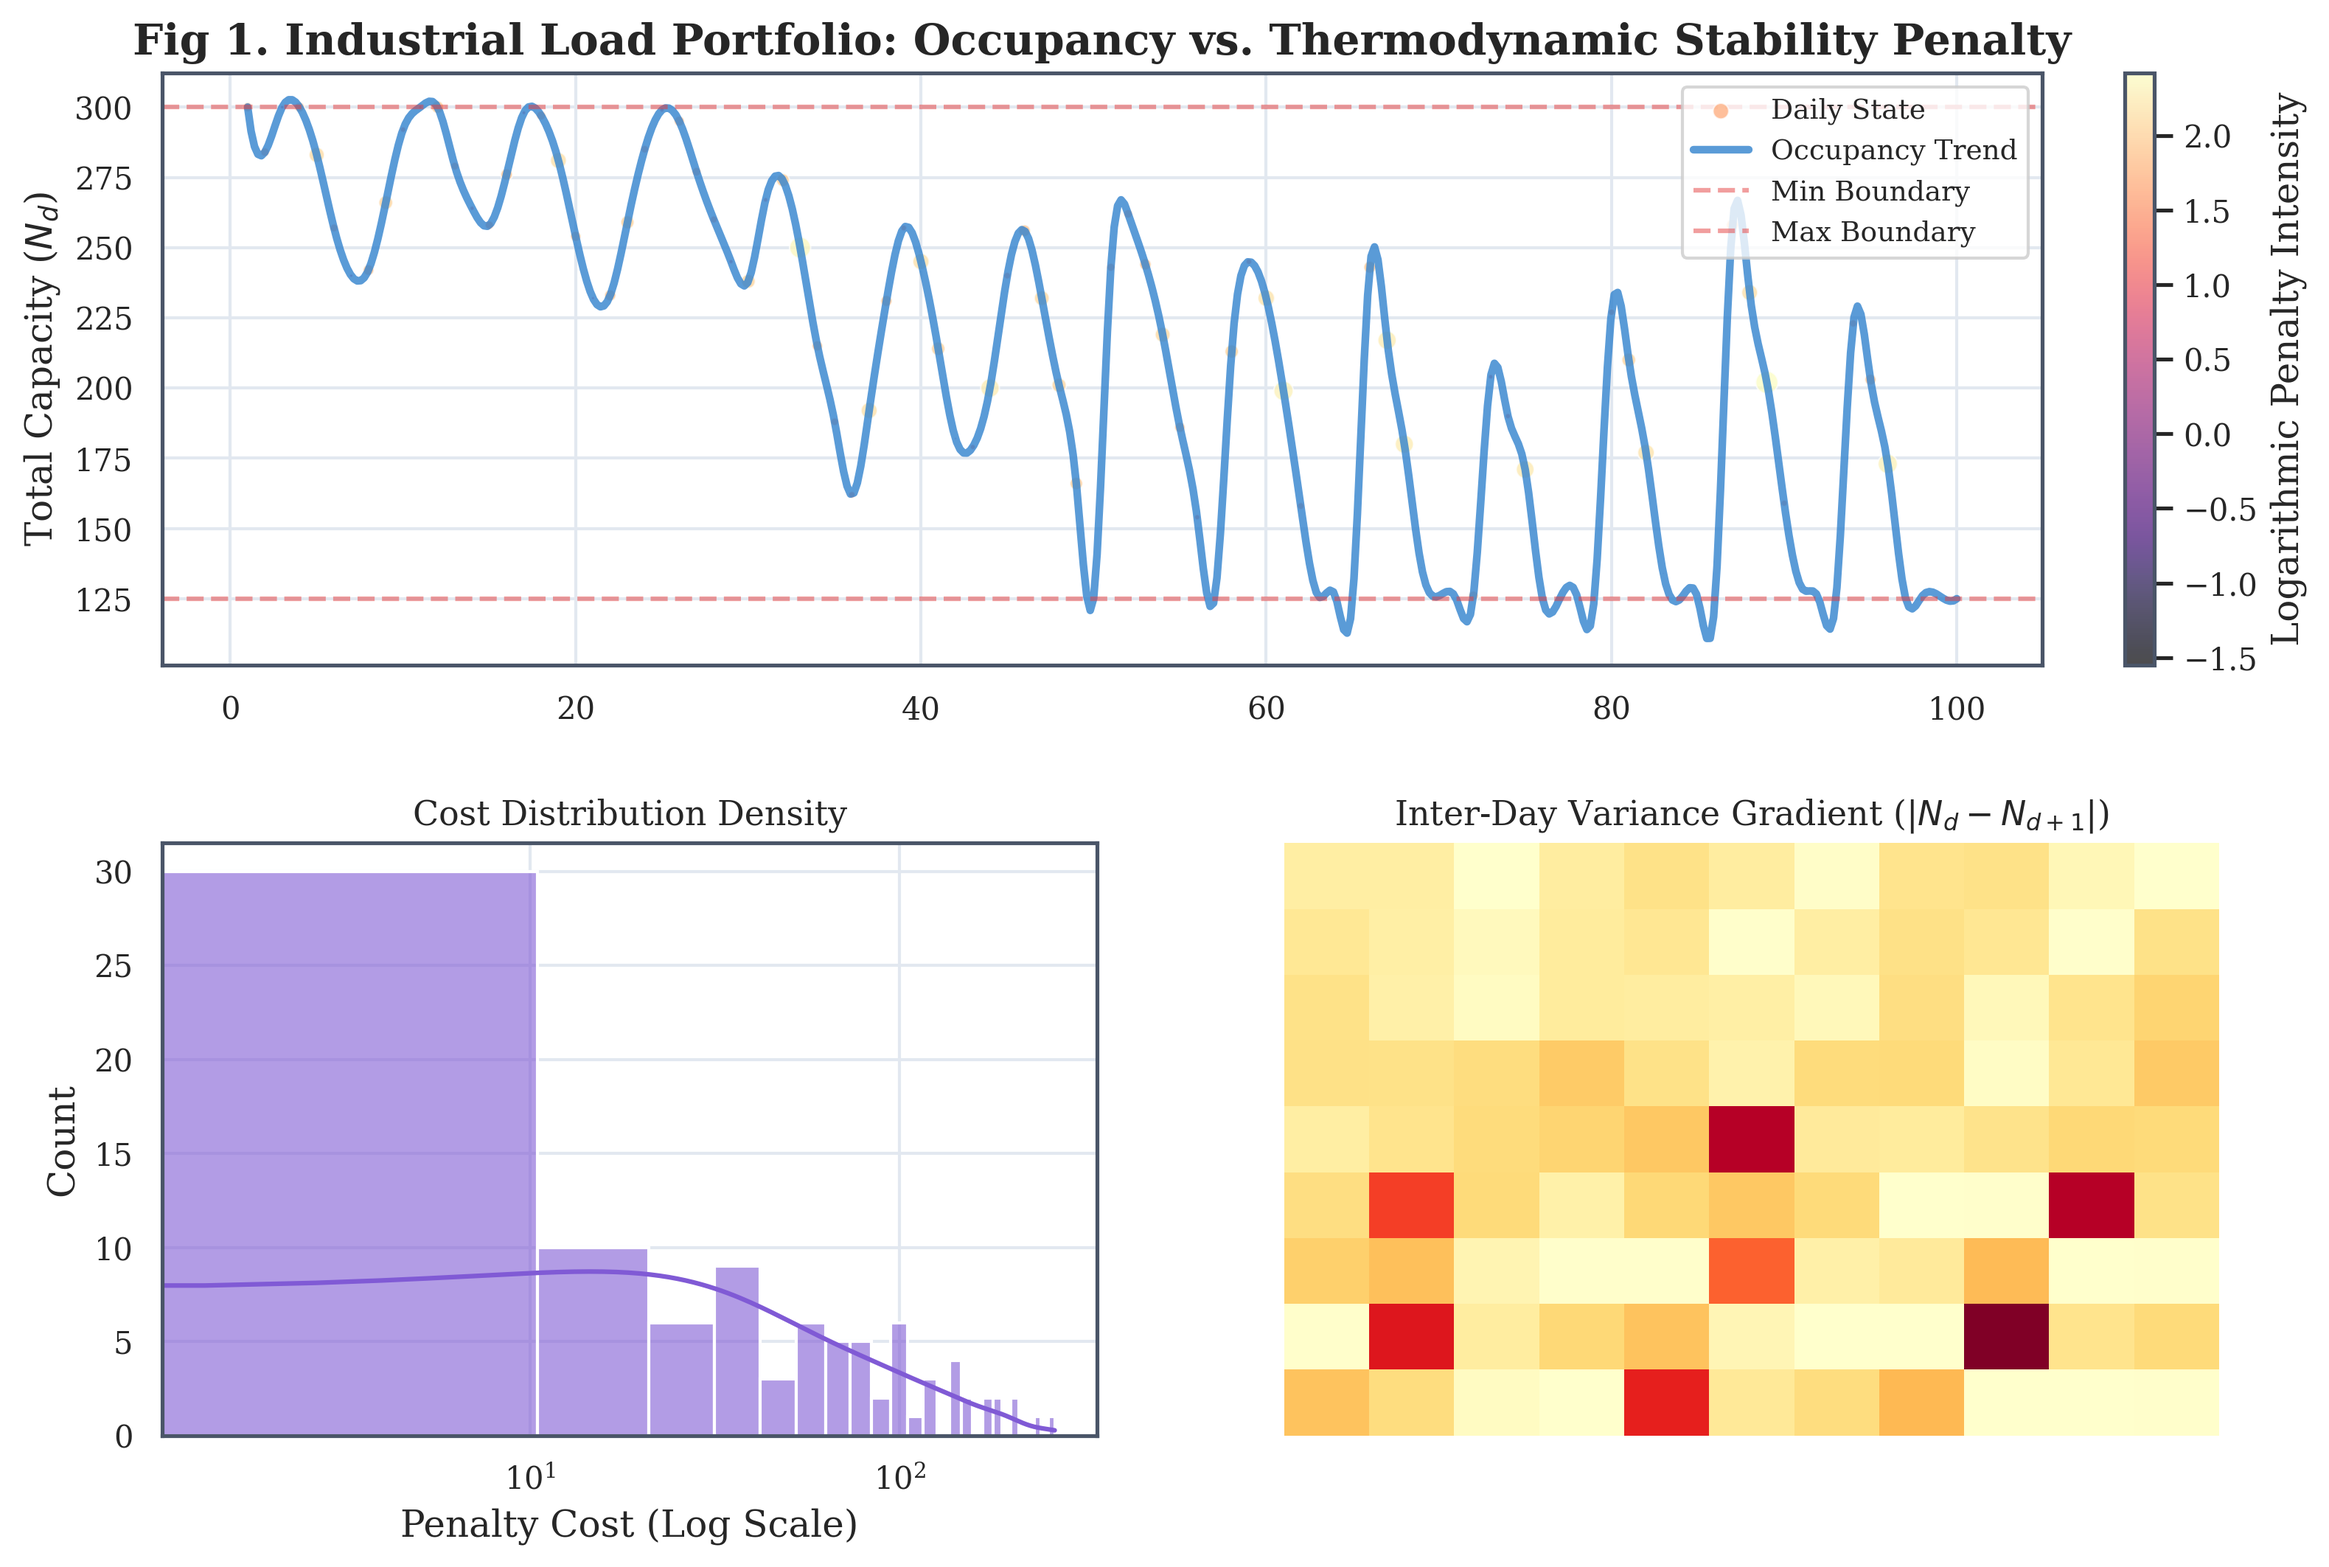
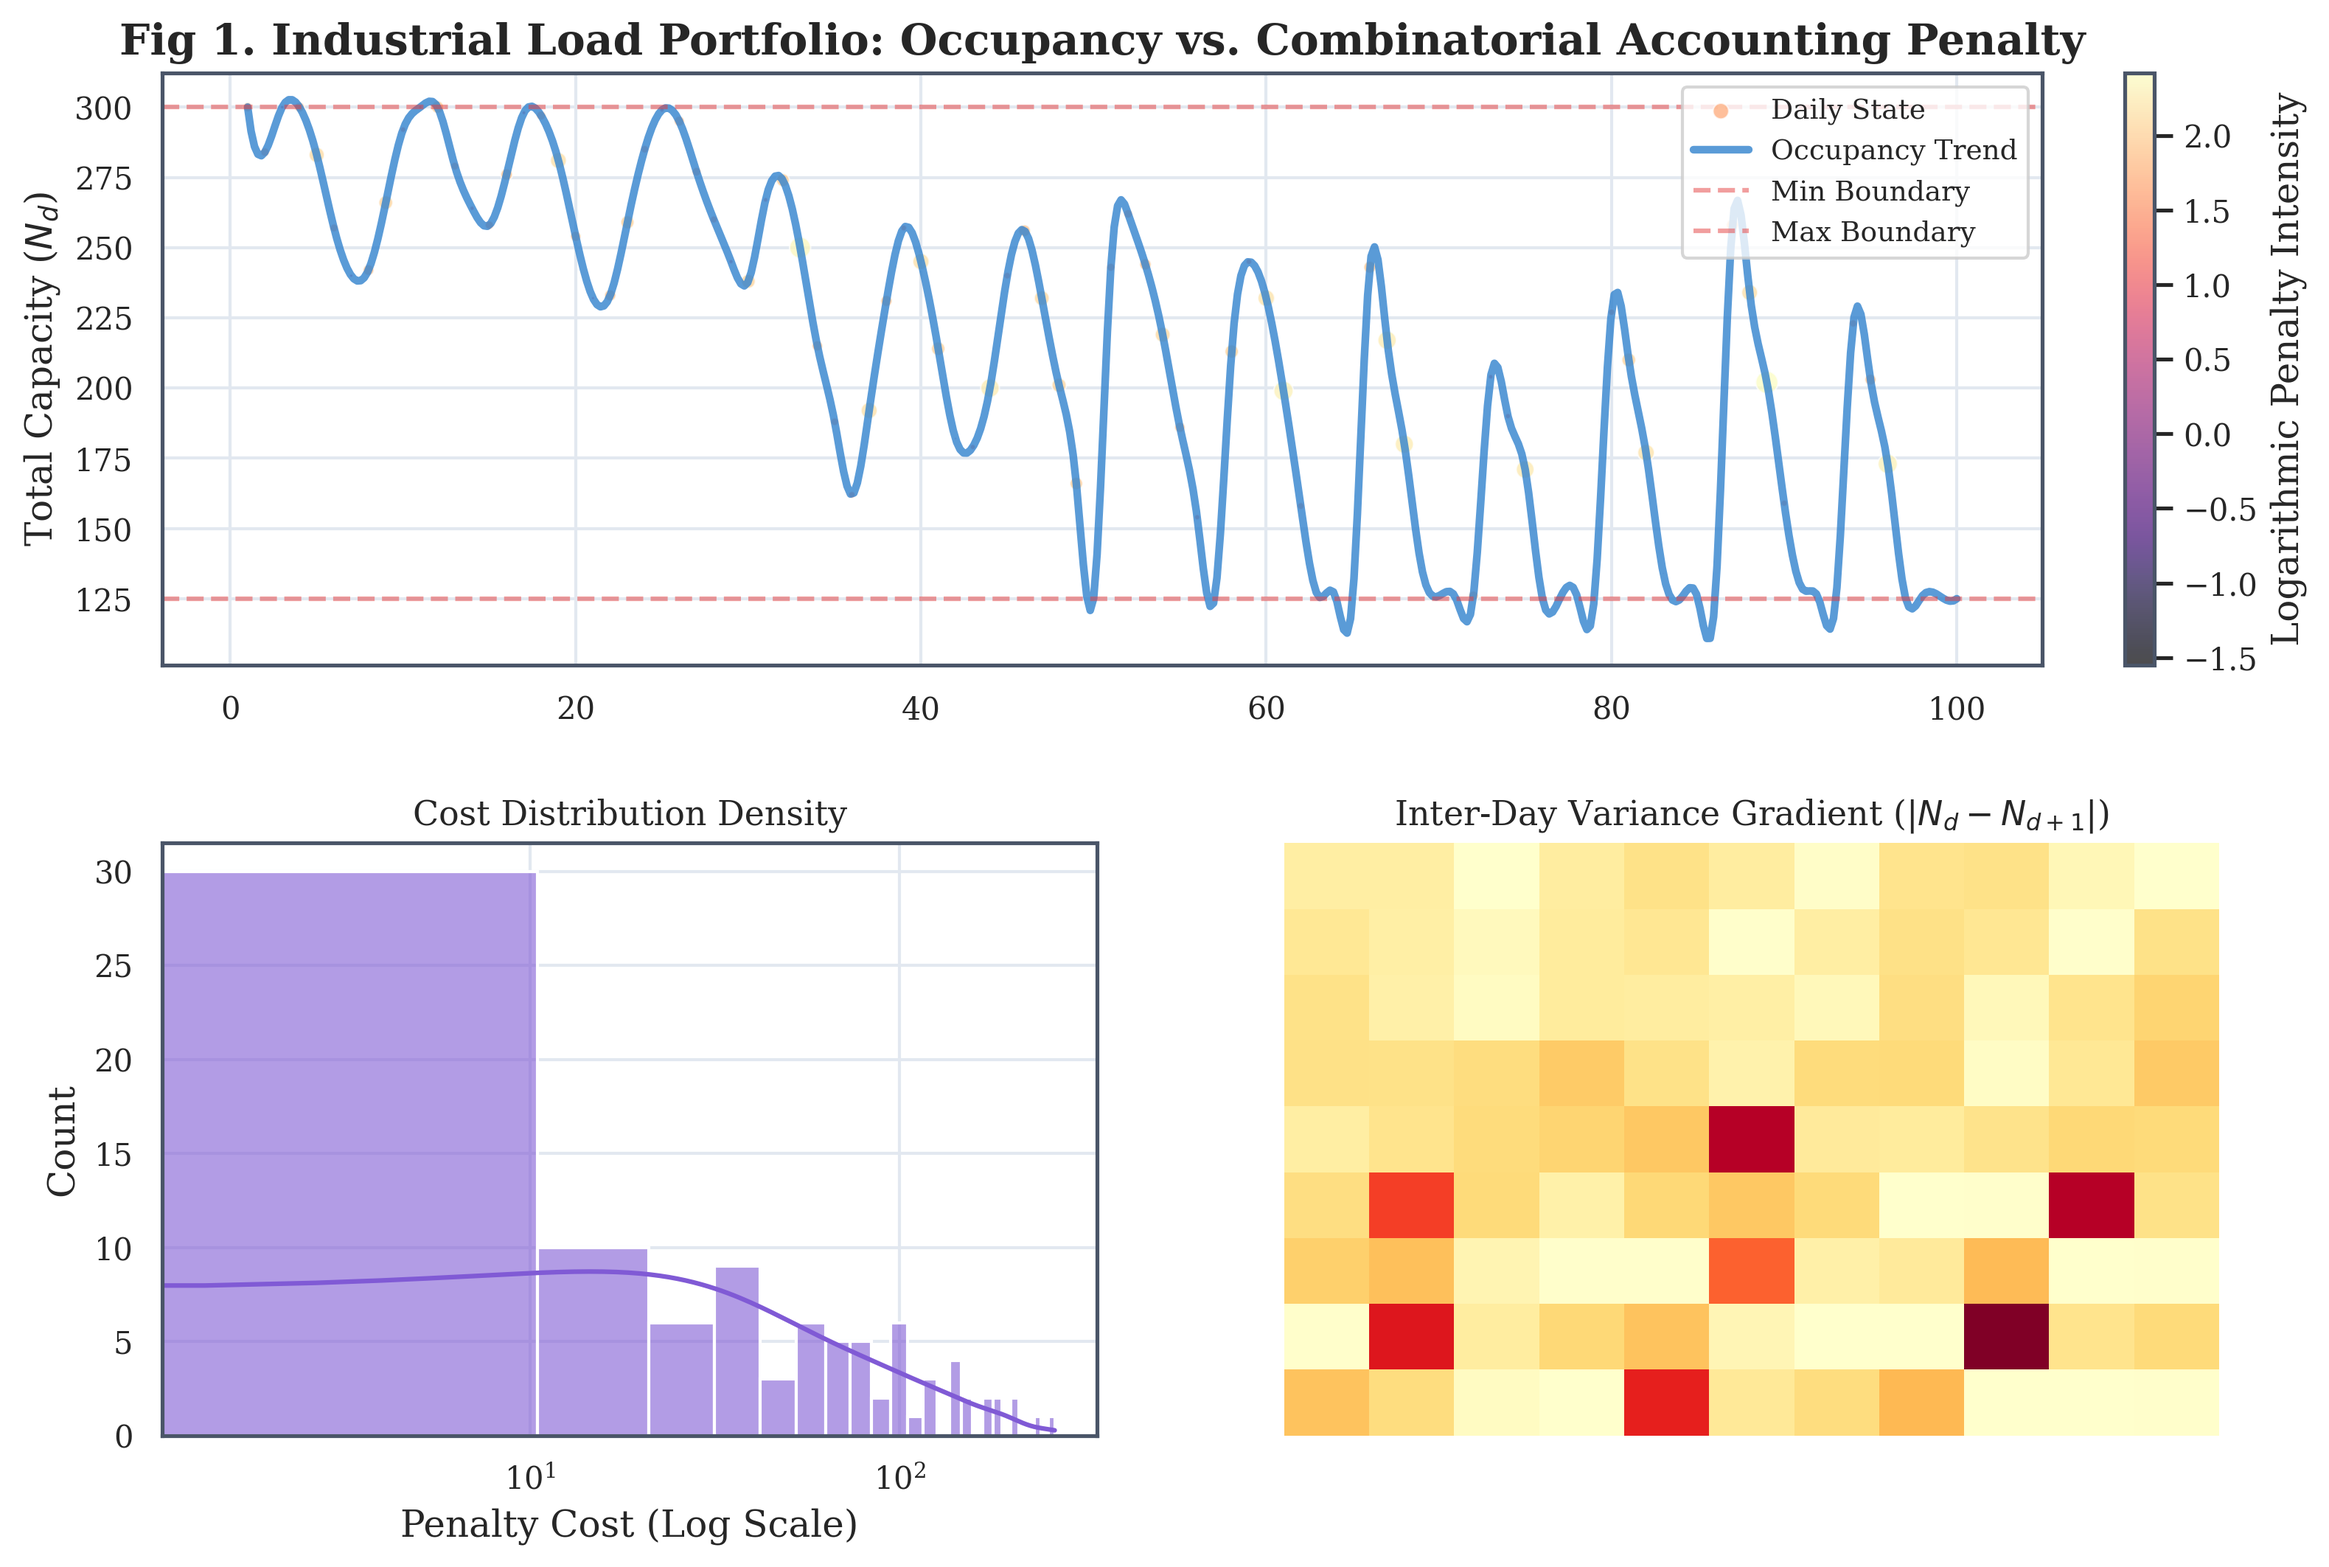
fix(docs): Refine chart terminology to pure Operations Research (Combinatorial Accounting Penalty)

Changed region(s): [[0.031, 0.0, 0.8997, 0.0621]]

diff --git a/scientific_plot.py b/scientific_plot.py
@@ -59,7 +59,7 @@ try:
     ax1.axhline(125, color="#e53e3e", linestyle="--", alpha=0.5, label="Min Boundary")
     ax1.axhline(300, color="#e53e3e", linestyle="--", alpha=0.5, label="Max Boundary")
     
-    ax1.set_title("Fig 1. Industrial Load Portfolio: Occupancy vs. Thermodynamic Stability Penalty", fontweight="bold")
+    ax1.set_title("Fig 1. Industrial Load Portfolio: Occupancy vs. Combinatorial Accounting Penalty", fontweight="bold")
     ax1.set_ylabel("Total Capacity ($N_d$)")
     cbar = plt.colorbar(scatter, ax=ax1, fraction=0.046, pad=0.04)
     cbar.set_label("Logarithmic Penalty Intensity")
